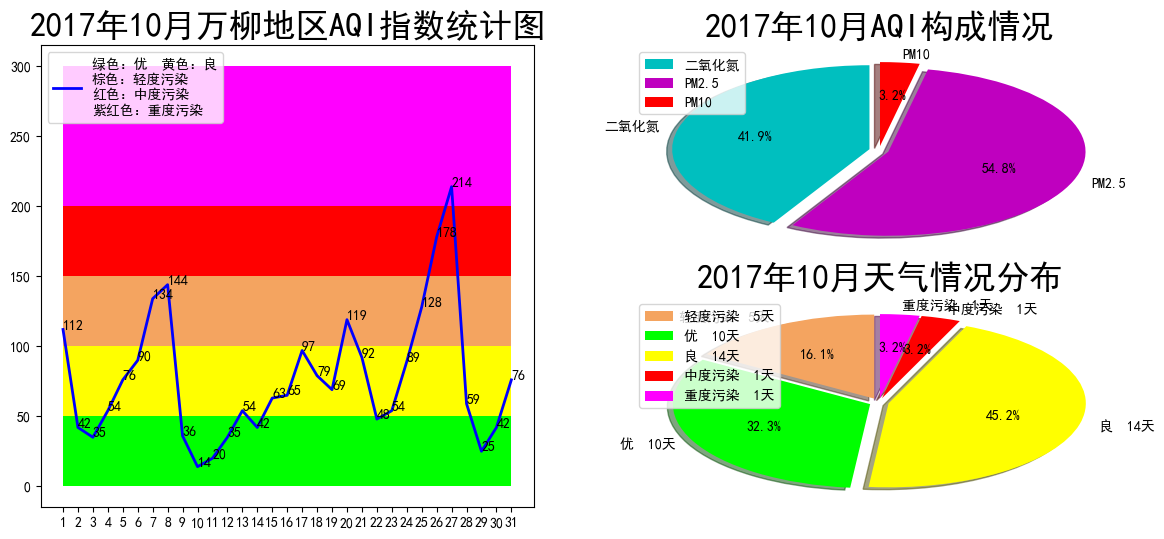
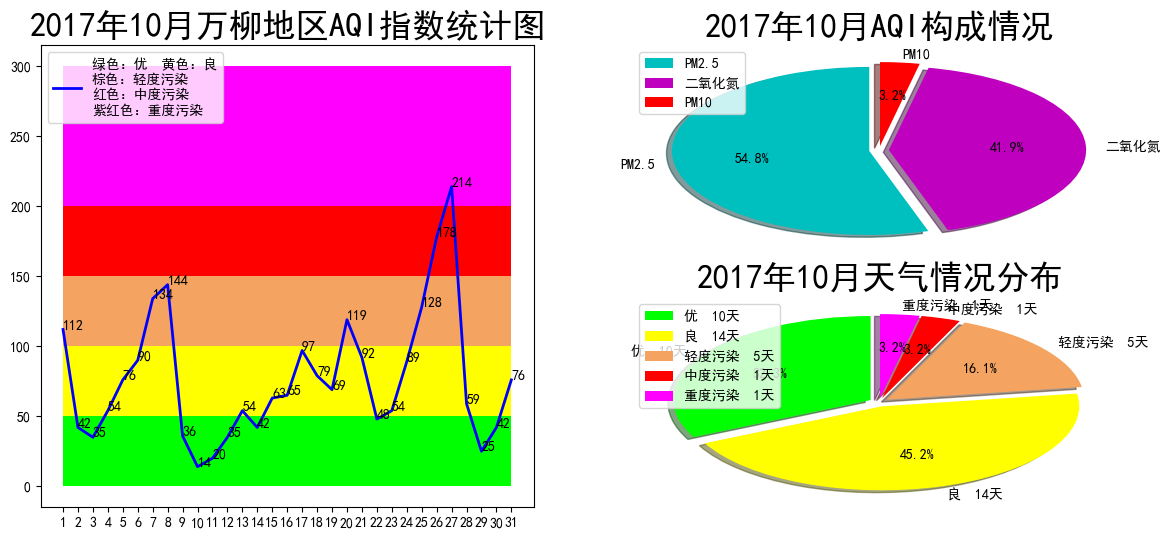
almost last modify

diff --git a/weather_year_all_dept.py b/weather_year_all_dept.py
@@ -161,106 +161,33 @@ if __name__ == '__main__':
 	#days_set is no order, so we must use list, but now the valiue is string
 	days_list = list(days_set)
 	days_list.sort()   
-	#ls saved statics frequnce of Max AQI of WanLiu
-	#ls2 saved Max AQI (key , value) = {day, max_value}
-	ls = []
-	ls2 = {}
-	ls3_aqi = []
-	for day in days_set:
-		tmp_list = [so2_dict[day][6], no2_dict[day][6], pm10_dict[day][6], o3_dict[day][6], pm25_dict[day][6]]
-		ls.append(tmp_list.index(max(tmp_list)))
-		ls2[day] = max(tmp_list)
-	
-	#cac my owned AQI,  Almost same with AQI
-	#for day in days_list:
-	#	ls3_aqi.append(ls2[day])  
-	pie_dict = Counter(ls)
-	pie_name = []
-	pie_value= []
-	for (key, value) in pie_dict.items():
-		pie_value.append(value)
-		if key==0:
-			pie_name.append('二氧化碳')
-		elif key==1:
-			pie_name.append('二氧化氮')
-		elif key==2:
-			pie_name.append('PM10')
-		elif key==3:
-			pie_name.append('臭氧')
-		elif key==4:
-			pie_name.append('PM2.5')
 
-	wanliu_aqi_list=[]
-	month_set = set()
-	month_list =[]
-	month_aqi_sum = [0]*12
-	month_aqi_count = [0]*12
-	month_aqi_avg = [0]*12
+	#save Sum AQI Value include every day
+	
+	aqi_sum_list = [0]*COL_NUM
+	aqi_count_list = [0]*COL_NUM
+	aqi_avg_list = [0]*COL_NUM
+
 	for day in days_list:
-		wanliu_aqi_list.append(aqi_dict[day][6])
 		#Now get the avarage Month AQI
 		#the days_list is ordered, but the cell is String
-		tmp_int_month = int(day[4:6])   #cut the int month
-		month_set.add(day[4:6])         #cut the string month, for the display in the Graphics
-		month_aqi_sum[tmp_int_month-1] += aqi_dict[day][6]
-		month_aqi_count[tmp_int_month-1] += 1
-	month_aqi_avg = list(map(lambda x,y: round(x/y), month_aqi_sum ,month_aqi_count   ))
+		for index, aqi in enumerate(aqi_dict[day]):
+			if aqi>0:
+				aqi_sum_list[index] += aqi
+				aqi_count_list[index] +=1
 
-	month_list = [int(x) for x in list(month_set)]
-	month_list.sort()
+	aqi_avg_list = list(map(lambda x,y: round(x/y) if y>0 else 0, aqi_sum_list ,aqi_count_list))
+	print(aqi_avg_list)
 
-	days_list_int = [int(day) for day in days_list]
-
-
-	################ Prepare Draw good day ######################
-	def getScope(value):
-		for index, key in enumerate([0, 50, 100, 150, 200, 300, 500]):
-			if value <= key:
-				break
-		if index==0:
-			return 1
-		else:
-			return index
-
-	day_classify_dict = {}
-	day_classify_dict = Counter([getScope(x) for x in wanliu_aqi_list])
-	new_pie_value = []
-	new_pie_color = []
-	new_pie_name = []
-
-	tmp_list = list(day_classify_dict.keys())
-	tmp_list.sort()
-	for key in tmp_list:
-		value = day_classify_dict[key]
-		new_pie_value.append(value)
-		if key ==1:
-			new_pie_color.append('lime')
-			new_pie_name.append('优  ' + str(value) +'天' )
-		elif key ==2:
-			new_pie_color.append('yellow')
-			new_pie_name.append('良  '+ str(value) +'天')
-		elif key ==3:
-			new_pie_color.append('sandybrown')
-			new_pie_name.append('轻度污染  '+ str(value) +'天')
-		elif key ==4:
-			new_pie_color.append('red')
-			new_pie_name.append('中度污染  '+ str(value) +'天')
-		elif key ==5:
-			new_pie_color.append('fuchsia')
-			new_pie_name.append('重度污染  '+ str(value) +'天')
-		elif key ==6:
-			new_pie_color.append('darkred')
-			new_pie_name.append('严重污染  '+ str(value) +'天')
- 
 
 	################################   Draw Line   ###########################
 	plt.figure(num=1, figsize=(14, 6))
-	plt.subplot(121)  
 
 	#Draw Rectangle
-	MONTH_COUNT = 12
+	dept_list = DEPT_STR.split(',')
+	MONTH_COUNT = COL_NUM
 	row = [x+1 for x in range(MONTH_COUNT)]
-	max_api_value = max(month_aqi_avg)
+	max_api_value = max(aqi_avg_list)
 	slabel = '绿色：优' + '  黄色：良\n' + '棕色：轻度污染\n' + '红色：中度污染' 
 	plt.fill_between(row, [50]*MONTH_COUNT, [0]*MONTH_COUNT, facecolor='lime', alpha=1)
 	plt.fill_between(row, [100]*MONTH_COUNT, [50]*MONTH_COUNT, facecolor='yellow', alpha=1)
@@ -273,27 +200,15 @@ if __name__ == '__main__':
 		slabel = slabel +  '\n黑红色：严重污染'
 		plt.fill_between(row, [500]*MONTH_COUNT, [300]*MONTH_COUNT, facecolor='darkred', alpha=1)
 
-	plt.plot(month_list, month_aqi_avg, c='blue', label = None, linewidth =2)
+	plt.bar([x+1 for x in range(35)], aqi_avg_list, label = None)
 	plt.legend(loc='upper left')
 #	plt.grid(True)
-	plt.title(INPUT_MONTH[0:4] + "年" + "万柳地区按月平均AQI指数统计图", fontsize=24)
-	for index, day in enumerate(month_list):
-		plt.text(day, month_aqi_avg[index], month_aqi_avg[index])
-	plt.xticks(month_list)
-
-	#Draw Pie component
-	plt.subplot(222)
-	cols = ['c','m','r','b', 'g']
-	plt.pie(pie_value, labels=pie_name, colors=cols, startangle=90, shadow= True, explode=[0.05 for x in range(len(pie_name))], autopct='%1.1f%%')
-	plt.title(INPUT_MONTH[0:4] + "年"  + "AQI构成情况", fontsize=24)
-	plt.legend(loc='upper left')
-
-	#Draw Pie Good Day
-	plt.subplot(224)
-	plt.pie(new_pie_value, labels=new_pie_name, colors=new_pie_color, startangle=90, shadow= True, explode=[0.05]*len(new_pie_name), autopct='%1.1f%%')
-	plt.title(INPUT_MONTH[0:4] + "年" + "天气情况分布", fontsize=24)
-	plt.legend(loc='upper left')
-	plt.savefig(INPUT_MONTH + '.png', bbox_inches='tight')
+	plt.title(INPUT_MONTH[0:4] + "年" + "北京市35个监测点平均AQI指数统计图", fontsize=24)
+	for index, day in enumerate([x+1 for x in range(35)]):
+		plt.text(day, aqi_avg_list[index], aqi_avg_list[index])
+		plt.text(day, 40, dept_list[index], rotation=90, color='white')
+	plt.xticks([x+1 for x in range(35)])
+	plt.savefig(INPUT_MONTH + '北京市AQI.png', bbox_inches='tight')
 	plt.show()
 	plt.close()
 

diff --git a/weather_month.py b/weather_month.py
@@ -15,7 +15,7 @@ import matplotlib.pyplot as plt
 from pylab import mpl
 
 #input MONTH
-INPUT_MONTH = '201706'
+INPUT_MONTH = '201712'
 mpl.rcParams['font.sans-serif'] = ['SimHei'] # 指定默认字体
 mpl.rcParams['axes.unicode_minus'] = False # 解决保存图像是负号'-'显示为方块的问题
 
@@ -210,9 +210,11 @@ if __name__ == '__main__':
 	new_pie_value = []
 	new_pie_color = []
 	new_pie_name = []
-	print(day_classify_dict)
 
-	for key, value in day_classify_dict.items():
+	tmp_list = list(day_classify_dict.keys())
+	tmp_list.sort()
+	for key in tmp_list:
+		value = day_classify_dict[key]
 		new_pie_value.append(value)
 		if key ==1:
 			new_pie_color.append('lime')
@@ -238,20 +240,21 @@ if __name__ == '__main__':
 	plt.figure(num=1, figsize=(14, 6))
 	plt.subplot(121)  
 	#Draw Rectangle
-	row = [x+1 for x in range(31)]
 
+	EVERY_MONT_DAYS_COUNT = 31
+	row = [x+1 for x in range(EVERY_MONT_DAYS_COUNT)]
 	max_api_value = max(wanliu_aqi_list)
 	slabel = '绿色：优' + '  黄色：良\n' + '棕色：轻度污染\n' + '红色：中度污染' 
-	plt.fill_between(row, [50]*31, [0]*31, facecolor='lime', alpha=1)
-	plt.fill_between(row, [100]*31, [50]*31, facecolor='yellow', alpha=1)
-	plt.fill_between(row, [150]*31, [100]*31, facecolor='sandybrown', alpha=1)
-	plt.fill_between(row, [200]*31, [150]*31, facecolor='red', alpha=1)
+	plt.fill_between(row, [50]*EVERY_MONT_DAYS_COUNT, [0]*EVERY_MONT_DAYS_COUNT, facecolor='lime', alpha=1)
+	plt.fill_between(row, [150]*EVERY_MONT_DAYS_COUNT, [100]*EVERY_MONT_DAYS_COUNT, facecolor='sandybrown', alpha=1)
+	plt.fill_between(row, [200]*EVERY_MONT_DAYS_COUNT, [150]*EVERY_MONT_DAYS_COUNT, facecolor='red', alpha=1)
+	plt.fill_between(row, [100]*EVERY_MONT_DAYS_COUNT, [50]*EVERY_MONT_DAYS_COUNT, facecolor='yellow', alpha=1)
 	if max_api_value>200:
 		slabel = slabel + '\n紫红色：重度污染'
-		plt.fill_between(row, [300]*31, [200]*31, facecolor='fuchsia', alpha=1)
+		plt.fill_between(row, [300]*EVERY_MONT_DAYS_COUNT, [200]*EVERY_MONT_DAYS_COUNT, facecolor='fuchsia', alpha=1)
 	if max_api_value>300:
 		slabel = slabel +  '\n黑红色：严重污染'
-		plt.fill_between(row, [500]*31, [300]*31, facecolor='darkred', alpha=1)
+		plt.fill_between(row, [500]*EVERY_MONT_DAYS_COUNT, [300]*EVERY_MONT_DAYS_COUNT, facecolor='darkred', alpha=1)
 	
 	plt.plot(days_list_int, wanliu_aqi_list, c='blue', label = slabel, linewidth =2)
 	plt.legend(loc='upper left')
@@ -269,9 +272,6 @@ if __name__ == '__main__':
 	plt.legend(loc='upper left')
 
 	#Draw Pie Good Day
-	print(new_pie_name)
-	print(new_pie_color)
-	print(new_pie_value)
 	plt.subplot(224)
 	plt.pie(new_pie_value, labels=new_pie_name, colors=new_pie_color, startangle=90, shadow= True, explode=[0.05]*len(new_pie_name), autopct='%1.1f%%')
 	plt.title(INPUT_MONTH[0:4] + "年" + INPUT_MONTH[4:6] + "月天气情况分布", fontsize=24)
